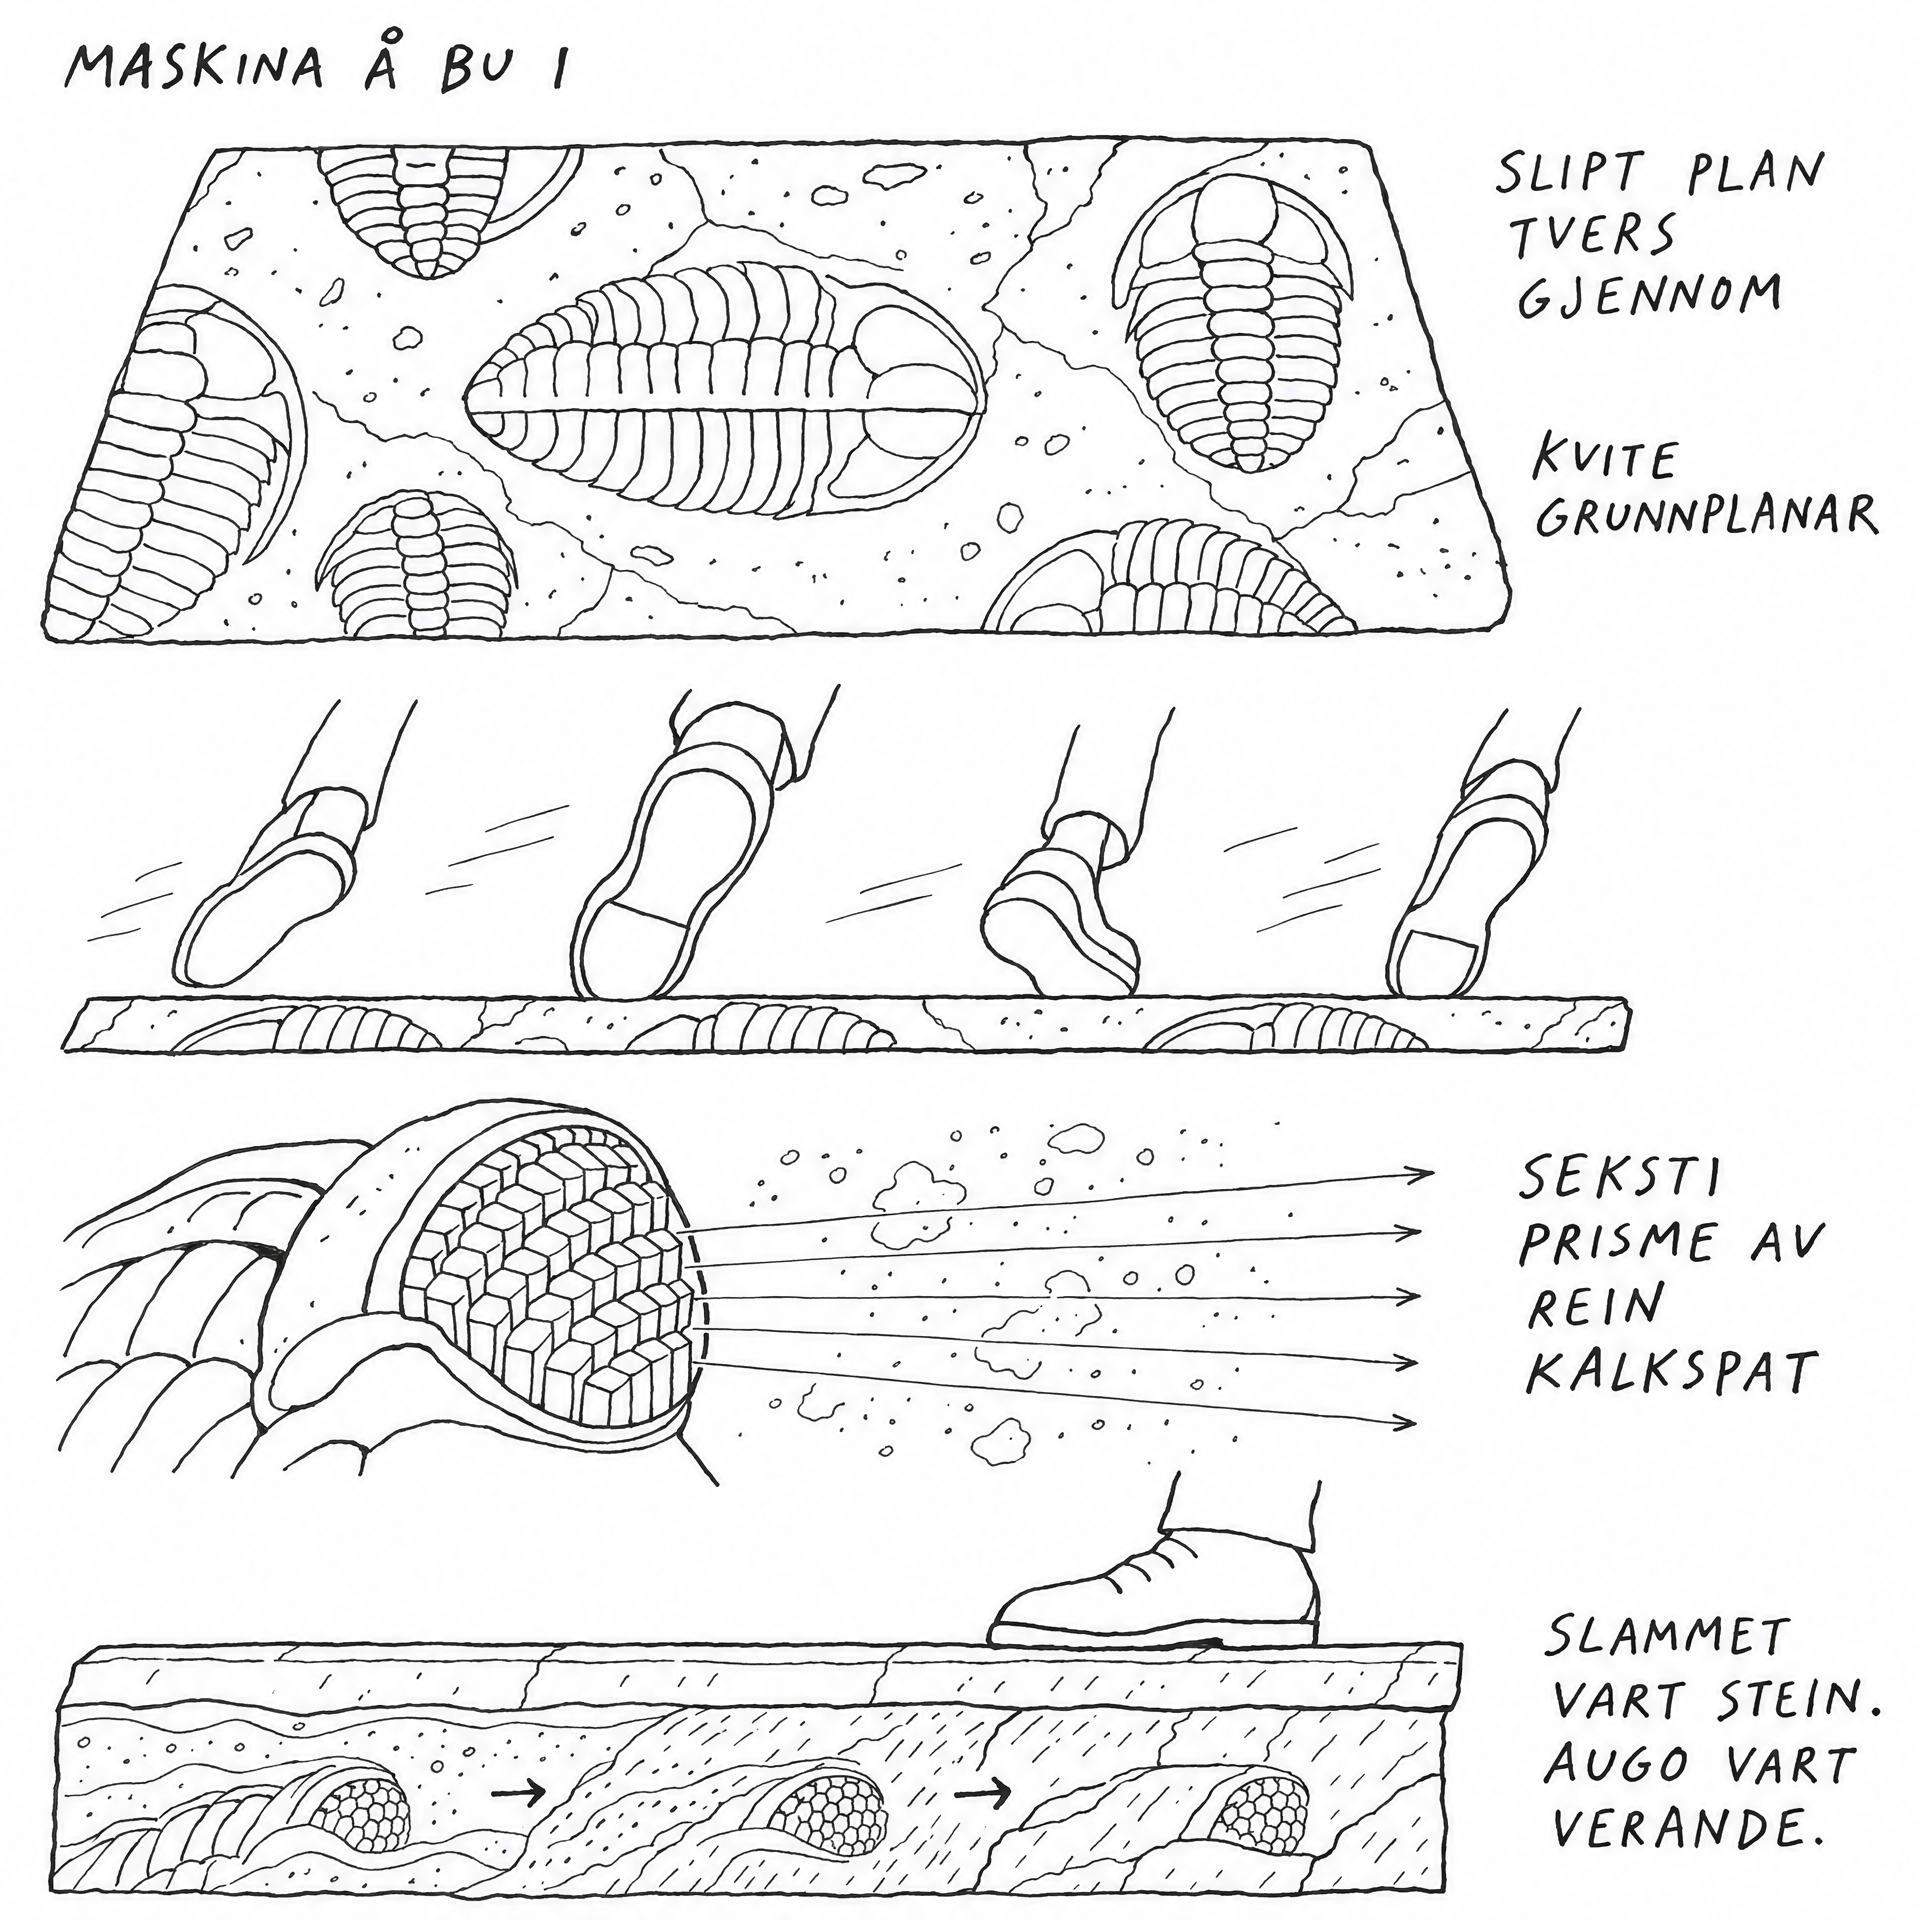
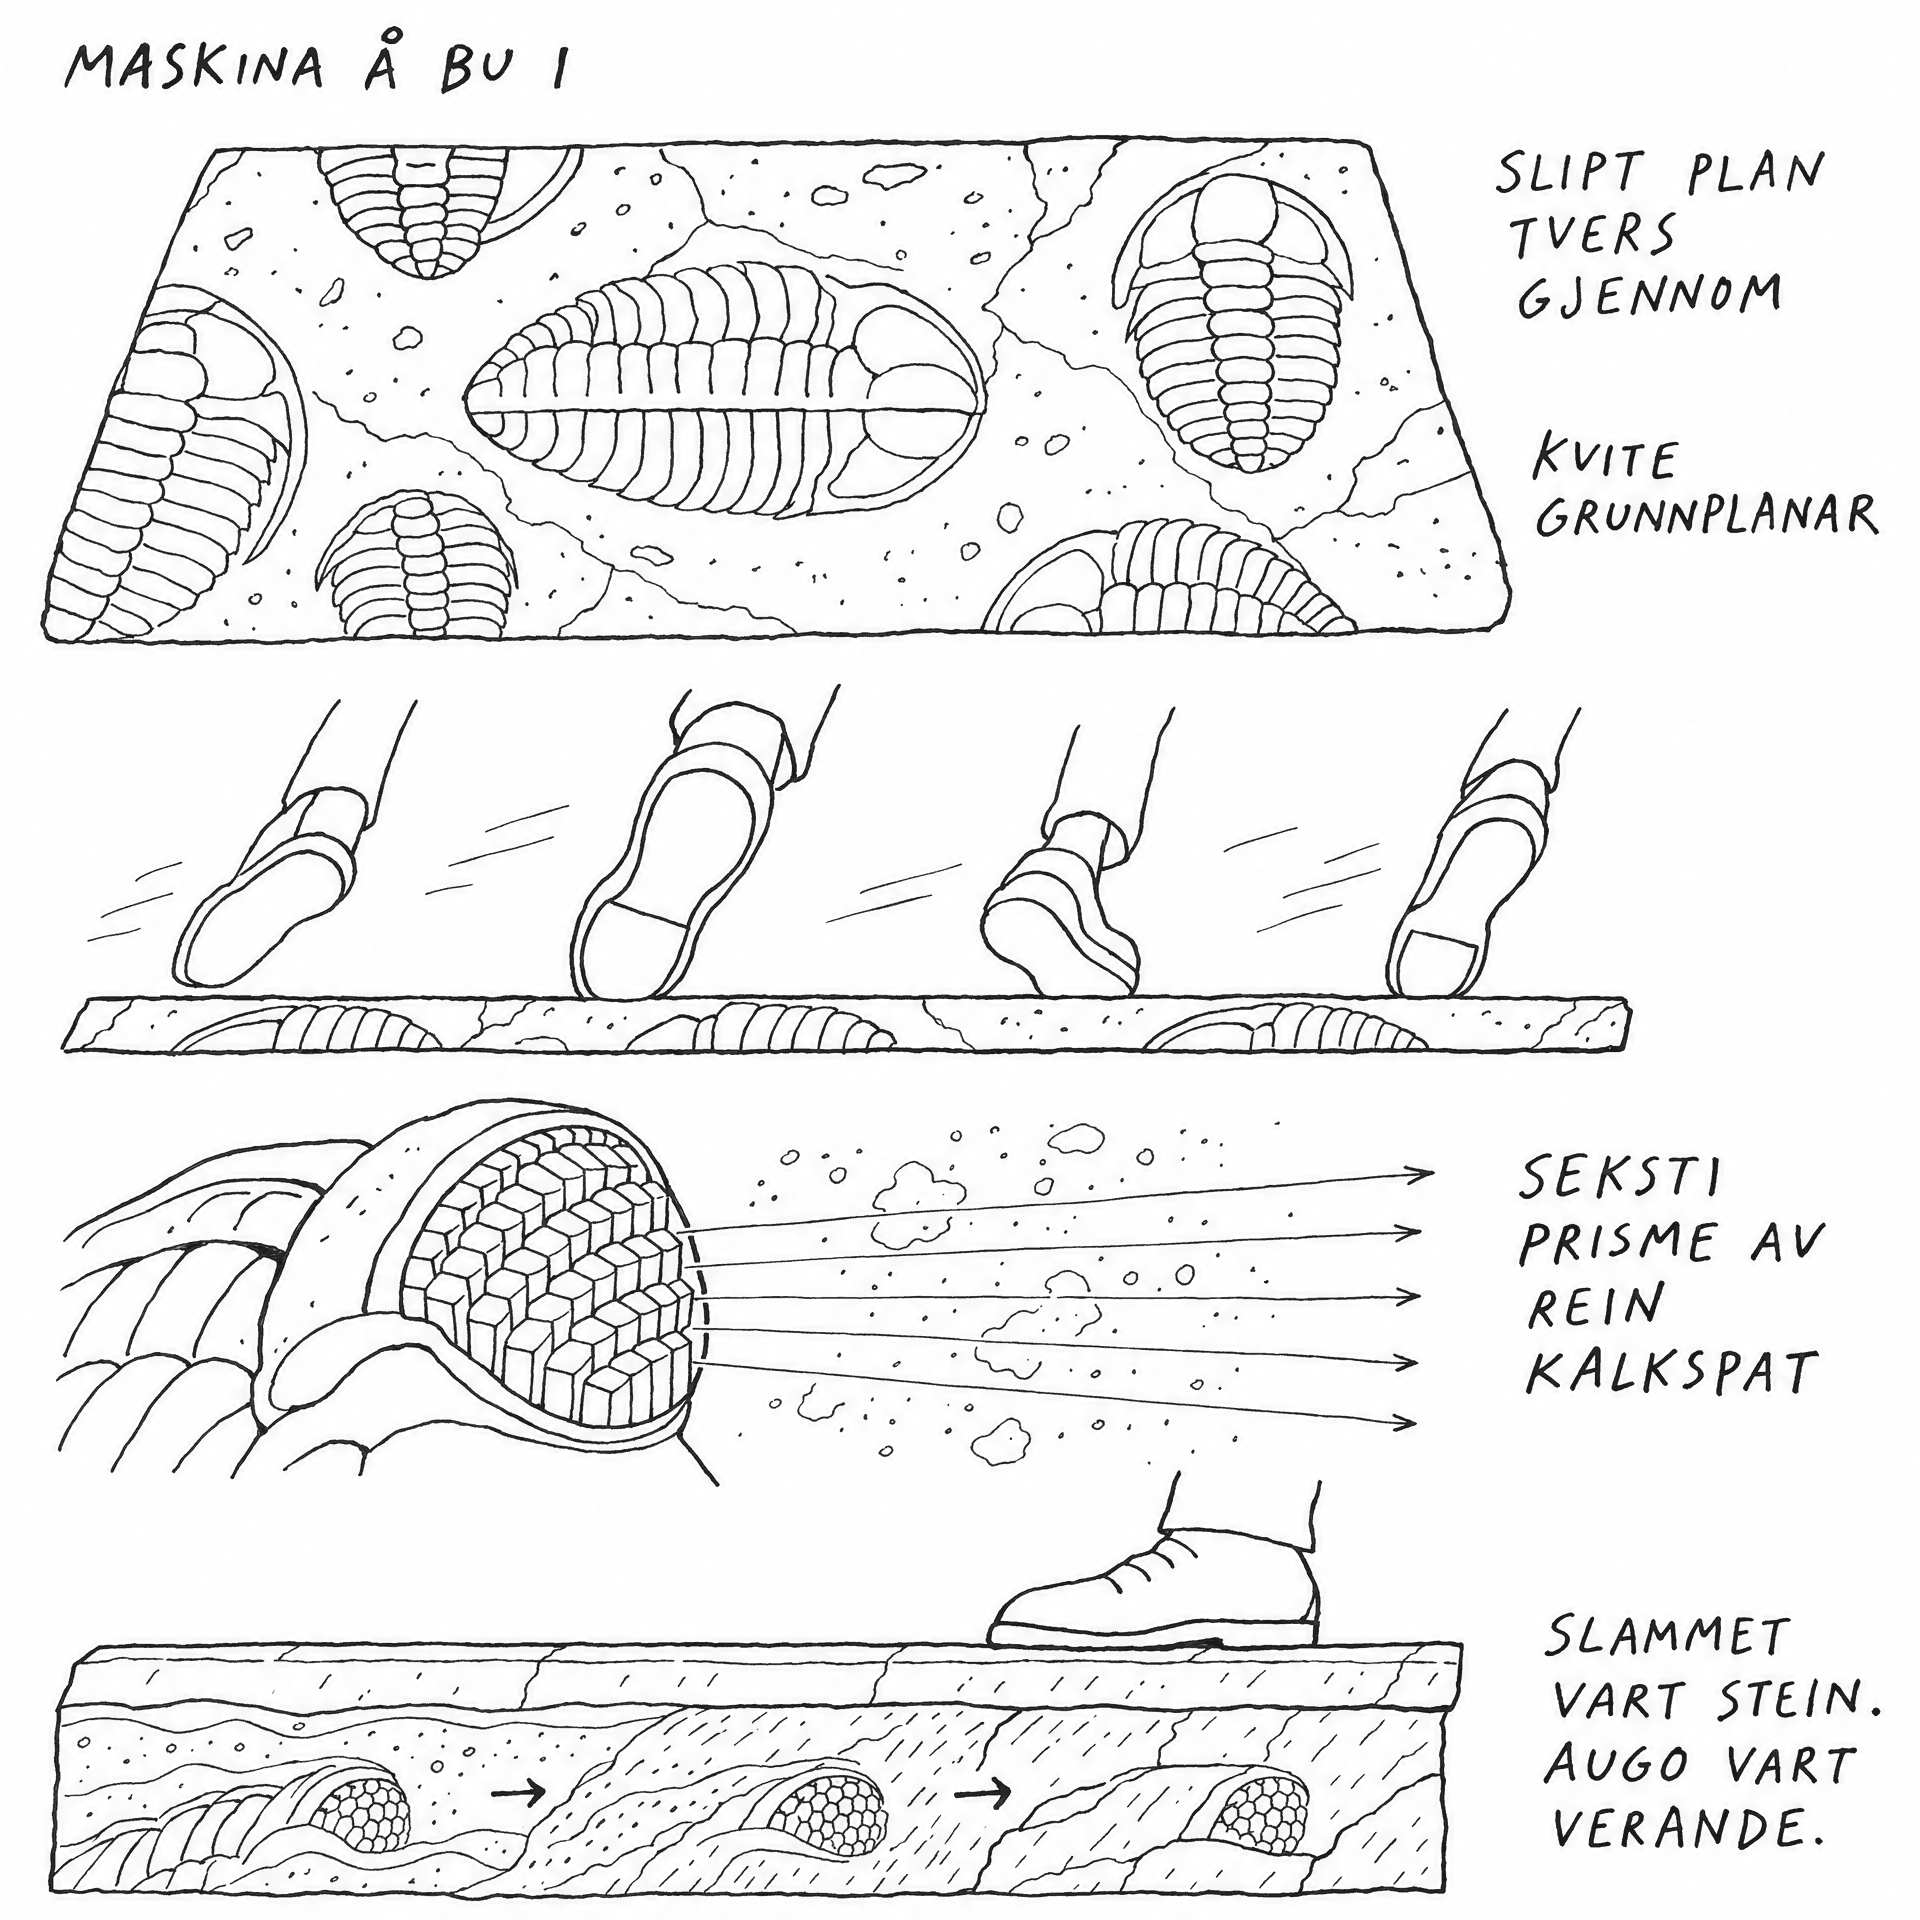
Teikningar: side 6 til 46 (1:1, gråtone), komprimeringsskript

diff --git a/bok/maskin-a-bu-i/teikningar/komprimer.py b/bok/maskin-a-bu-i/teikningar/komprimer.py
@@ -1,0 +1,20 @@
+#!/usr/bin/env python3
+"""Flyttar dei fulle RGB-originalane til original/ (ikkje i git) og skriv side-NN.png som gråtone med
+16 nivå: same strek og kantutjamning for tusjteikningar, om lag ein firedel av storleiken."""
+import shutil
+from pathlib import Path
+
+from PIL import Image
+
+HER = Path(__file__).resolve().parent
+ORIGINAL = HER / "original"
+ORIGINAL.mkdir(exist_ok=True)
+
+for side in sorted(HER.glob("side-*.png")):
+    with Image.open(side) as im:
+        if im.mode == "P":
+            continue                                   # alt komprimert
+        im.load()
+    shutil.copy2(side, ORIGINAL / side.name)
+    im.convert("L").quantize(16, method=Image.Quantize.MEDIANCUT).save(side, optimize=True)
+    print(f"{side.name}: {side.stat().st_size // 1024} KB")
